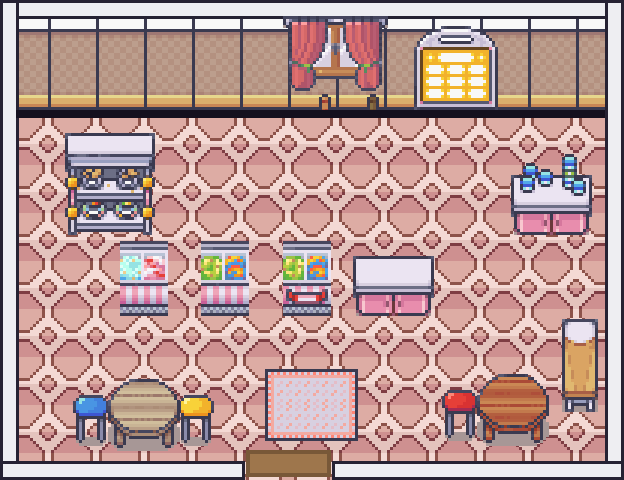
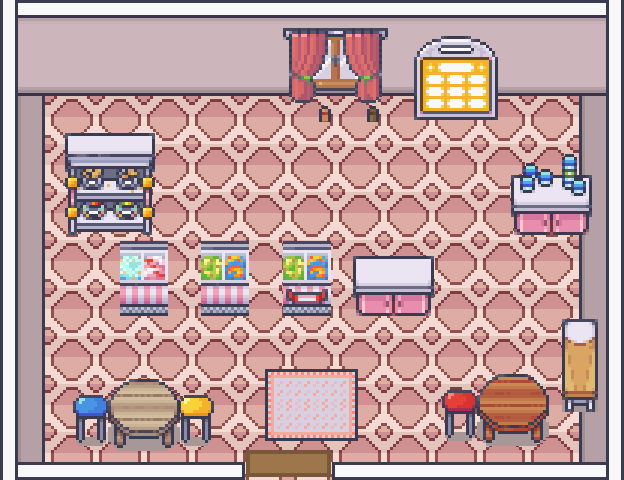
Echte LimeZu-muren in alle interieurs
Muur-engine vervangen: wandvlakken en zijmuur-stukken gecropt uit het Generic
Home-design (6_Home_Designs), witte randen die om hoeken doorlopen, zijmuren
met echte dikte, binnenmuren met volledig profiel en nette deurposten, en een
muurtint per kamer voor eigen sfeer. Wanddecor hangt op het nieuwe muurvlak.
Aanleiding: vergelijking met het officiele LimeZu-voorbeeld (screenshot
Stephan); de oude geschilderde kappen en onderbroken muren zijn weg.

Claude-Session: https://claude.ai/code/session_01SkE9qCHYANELouNJeJz2hC

Changed region(s): [[0.0, 0.0, 1.0, 1.0]]

diff --git a/docs/sw.js b/docs/sw.js
@@ -3,7 +3,7 @@
 // Schaakhelden: eerst cache, dan netwerk; alles wat binnenkomt gaat de cache
 // in, dus na een keer spelen werkt het spel volledig offline.
 // Nieuwe versie uitbrengen? Verhoog het nummer hieronder.
-const CACHE = 'tafeldorp-v2';
+const CACHE = 'tafeldorp-v3';
 
 const START = ['.', 'index.html', 'manifest.webmanifest'];
 

diff --git a/public/sw.js b/public/sw.js
@@ -3,7 +3,7 @@
 // Schaakhelden: eerst cache, dan netwerk; alles wat binnenkomt gaat de cache
 // in, dus na een keer spelen werkt het spel volledig offline.
 // Nieuwe versie uitbrengen? Verhoog het nummer hieronder.
-const CACHE = 'tafeldorp-v2';
+const CACHE = 'tafeldorp-v3';
 
 const START = ['.', 'index.html', 'manifest.webmanifest'];
 

diff --git a/scripts/bouw-interieurs.py b/scripts/bouw-interieurs.py
@@ -55,6 +55,32 @@ WAND = {
 RAND_DONKER = (42, 36, 56, 255)
 RAND_LICHT = (214, 210, 224, 255)
 
+# LimeZu-muurstukken uit het Generic Home-design (6_Home_Designs): echte
+# Room_Builder-look voor alle kamers. Maten: noordmuur 96px (witte top 18 +
+# wandvlak 81 incl contour), zijmuur 45px dik (rand 18 + vlak 24 + lijn 3),
+# zuidkap 18px.
+_GH = Image.open(VENDOR / "modern-interiors" / "6_Home_Designs" /
+                 "Generic_Home_Designs" / "48x48" /
+                 "Generic_Home_1_Layer_1_48x48.png").convert("RGBA")
+N_VLAK = _GH.crop((192, 15, 240, 96))      # 48x81 wandvlak met contourlijnen
+ZIJ_GRIJS = _GH.crop((579, 528, 603, 576))  # 24x48 zijwand-vlak
+WIT = (248, 248, 248, 255)
+DONKER = (58, 58, 80, 255)
+RAND = 18
+ZIJ = RAND + 24 + 3
+NOORD = 96
+ZUID = 18
+
+
+def getint(img, kleur):
+    """Multiply-tint op een muurvlak; contouren blijven donker."""
+    if kleur is None:
+        return img
+    arr = np.array(img).astype(float)
+    for i in range(3):
+        arr[..., i] *= kleur[i] / 255.0
+    return Image.fromarray(arr.clip(0, 255).astype("uint8"))
+
 # NPC-plekken (spiegel van src/core/locaties.ts) voor de debug-render
 NPC_PLEK = {
     "thuis": {"tx": 3.2, "ty": 5.6},
@@ -159,6 +185,7 @@ KAMERS = {
     # vloerwissel), slaapkamer | hal beneden. Mama bij het aanrecht (3.2, 5.6).
     "thuis": {
         "b": 18, "h": 15, "vloer": "parket", "wand": "taupe", "mat_bx": 13,
+        "muurtint": (255, 244, 225),
         "zones": [
             (0, 2, 7, 7, "grijslicht"),     # keuken (geblokte zone in het hout)
             (0, 10, 7, 14, "rozediamant"),  # slaapkamer
@@ -178,7 +205,7 @@ KAMERS = {
             (KEUKEN, 153, 3, 3.9, 0.5),     # fornuis
             (KEUKEN, 143, 4.2, 3.85, 0.45),  # spoelbak
             (KEUKEN, 113, 5.4, 3.85, 0.45),  # aanrecht
-            ("gen", GEN["raam_hout"], 6.6, 1.3, 0.0, False),
+            ("gen", GEN["raam_hout"], 6.6, 1.55, 0.0, False),
             (KEUKEN, 296, 4, 6.6, 0.3),     # eettafel
             (KEUKEN, 384, 4, 6.68, 0.0, False),   # bord met eten op tafel
             (KEUKEN, 371, 2.7, 6.5, 0.3), (KEUKEN, 368, 5.3, 6.5, 0.3),
@@ -186,7 +213,7 @@ KAMERS = {
             (LR, 89, 10, 4, 0.65),          # staande klok
             ("gen", GEN["raam_gordijn_beige"], 11.9, 1.68, 0.0, False),
             (LR, 110, 14, 4, 0.55),         # haard
-            ("gen", GEN["schilderij_vuur"], 16.2, 1.3, 0.0, False),
+            ("gen", GEN["schilderij_vuur"], 16.2, 1.5, 0.0, False),
             (LR, 37, 16.4, 4, 0.55),        # kast
             (LR, 29, 12, 5.9, 0.35),        # bank op het kleed
             (REC, 204, 14.7, 5.9, 0.35),    # fauteuil
@@ -205,13 +232,14 @@ KAMERS = {
     # toonbank met vitrines scheidt papa (5.5, 4.4) van de klantenruimte.
     "bakkerij": {
         "b": 14, "h": 10, "vloer": "beige", "wand": "streep",
+        "muurtint": (255, 228, 190),
         "kleden": [(KEUKEN, 226, 10.5, 8.4)],
         "meubels": [
             (GROC, 253, 1.6, 3.95, 0.5), (GROC, 254, 3.4, 3.95, 0.5),   # ovens
             (GROC, 203, 5.4, 3.9, 0.5), (GROC, 205, 7.2, 3.9, 0.5),     # broodrekken
             (GROC, 250, 9, 3.9, 0.5),       # stokbroodrek
-            ("gen", GEN["raam_rood"], 10.9, 1.3, 0.0, False),
-            (GROC, 89, 12.5, 1.15, 0.0, False),   # aanbiedingsbord
+            ("gen", GEN["raam_rood"], 10.9, 1.55, 0.0, False),
+            (GROC, 89, 12.5, 1.45, 0.0, False),   # aanbiedingsbord
             (KEUKEN, 407, 2.6, 5.6, 0.35), (KEUKEN, 408, 4.6, 5.6, 0.35),  # vitrines
             (GROC, 171, 6.5, 5.6, 0.35),    # kassa
             (REC, 3, 10.5, 7.6, 0.3),       # tafeltje in de winkel
@@ -224,11 +252,12 @@ KAMERS = {
     # koelwand en groentekasten achter, stelling-eilanden in het midden.
     "supermarkt": {
         "b": 16, "h": 12, "vloer": "grijslicht", "wand": "taupe",
+        "muurtint": (235, 240, 245),
         "meubels": [
-            (GROC, 2, 1, 1.15, 0.0, False),   # OPEN-bord
+            (GROC, 2, 1.2, 1.45, 0.0, False),   # OPEN-bord
             (GROC, 61, 4.6, 3.9, 0.5), (GROC, 66, 6.6, 3.9, 0.5), (GROC, 71, 8.6, 3.9, 0.5),
             (GROC, 427, 11, 3.9, 0.45), (GROC, 428, 13.2, 3.9, 0.45),  # groente-uitstalling
-            (GROC, 88, 14.9, 1.15, 0.0, False),   # prijsbord
+            (GROC, 88, 14.6, 1.45, 0.0, False),   # prijsbord
             (GROC, 171, 2.2, 6.7, 0.35),    # kassa bij de muur, verkoper erachter
             (GROC, 121, 1.2, 8.4, 0.3),     # winkelmanden voor de balie
             (GROC, 98, 6.5, 7.5, 0.5), (GROC, 100, 9.5, 7.5, 0.5), (GROC, 102, 12.5, 7.5, 0.5),
@@ -241,13 +270,14 @@ KAMERS = {
     # tafeltjes in twee rijen, boekenkasten in de hoeken.
     "school": {
         "b": 16, "h": 12, "vloer": "plankgeel", "wand": "rozeplank",
+        "muurtint": (255, 245, 205),
         "kleden": [("gen", GEN["kleed_klein_groen"], 3, 7.85)],
         "meubels": [
             (KLAS, 45, 0.9, 3.9, 0.55), (KLAS, 47, 2.6, 3.9, 0.55),  # boekenkasten
             (KLAS, 39, 5.5, 4.2, 0.45),     # schoolbord op poten
-            (KLAS, 31, 9.5, 1.15, 0.0, False),   # wereldkaart
-            (KLAS, 32, 11.5, 1.15, 0.0, False),  # stickerkaart
-            (KLAS, 33, 13.4, 1.15, 0.0, False),  # prikbord
+            (KLAS, 31, 9.5, 1.45, 0.0, False),   # wereldkaart
+            (KLAS, 32, 11.5, 1.45, 0.0, False),  # stickerkaart
+            (KLAS, 33, 13.4, 1.45, 0.0, False),  # prikbord
             (KLAS, 60, 14.2, 3.9, 0.55),    # kast rechtsachter
             (KLAS, 25, 3, 7.4, 0.3),        # juf-bureau, juf erachter
             (KLAS, 9, 6.5, 7.5, 0.3), (KLAS, 11, 9.5, 7.5, 0.3), (KLAS, 7, 12.5, 7.5, 0.3),
@@ -259,11 +289,12 @@ KAMERS = {
     # balie rechts waar de bibliothecaresse staat (13.6, 4.6), leeshoek rechtsonder.
     "bieb": {
         "b": 16, "h": 12, "vloer": "houtdonker", "wand": "baksteenbruin",
+        "muurtint": (240, 225, 200),
         "kleden": [("gen", GEN["kleed_grijs"], 12, 10.3)],
         "meubels": [
             (KLAS, 74, 1, 3.9, 0.55), (KLAS, 70, 2.9, 3.9, 0.55), (KLAS, 62, 4.8, 3.9, 0.55),
             (KLAS, 64, 6.7, 3.9, 0.55), (KLAS, 72, 8.6, 3.9, 0.55),
-            ("gen", GEN["raam_bruin"], 11, 1.3, 0.0, False),
+            ("gen", GEN["raam_bruin"], 11, 1.55, 0.0, False),
             (KLAS, 59, 14.9, 3.9, 0.55),    # smalle kast in de noordoost-hoek
             (KLAS, 49, 13.6, 5.8, 0.35),    # uitleenbalie
             (KLAS, 43, 3.5, 7, 0.45), (KLAS, 44, 7, 7, 0.45),   # schap-eilanden
@@ -278,6 +309,7 @@ KAMERS = {
     # (9, 6.2), matten midden, krachthoek links, boksbal rechts.
     "sporthal": {
         "b": 18, "h": 13, "vloer": "grijs", "wand": "taupe",
+        "muurtint": (225, 230, 238),
         "meubels": [
             (GYM, 131, 2.2, 3.35, 0.5), (GYM, 131, 4, 3.35, 0.5),   # spiegels
             (GYM, 186, 6.5, 4, 0.35), (GYM, 187, 8.5, 4, 0.35),   # loopbanden
@@ -297,6 +329,7 @@ KAMERS = {
     # Mees staat vrij in het midden (6.5, 5.4).
     "molen": {
         "b": 12, "h": 10, "vloer": "plankoud", "wand": "kist",
+        "muurtint": (235, 215, 185),
         "meubels": [
             (REC, 64, 1.2, 3.85, 0.4), (REC, 65, 2.9, 3.8, 0.4),   # kratten
             (GROC, 436, 5, 3.75, 0.3), (GROC, 437, 6.8, 3.75, 0.3),  # meelzakken
@@ -311,6 +344,7 @@ KAMERS = {
     # met een loper als middenpad naar de deur. Arena van de Tafeldraak.
     "kerk": {
         "b": 14, "h": 13, "vloer": "visgraat", "wand": "baksteenrood",
+        "muurtint": (255, 215, 195),
         "kleden": [
             ("gen", GEN["kleed_paars"], 7, 6.2),   # altaarkleed
             ("gen", GEN["loper_bruin"], 7, 12.4),
@@ -332,6 +366,7 @@ KAMERS = {
     # ervoor (7, 5.2), hooi los op de vloer, vaten en kratten in de hoeken.
     "boerderij": {
         "b": 14, "h": 10, "vloer": "plankoud", "wand": "plankdonker",
+        "muurtint": (230, 210, 180),
         "meubels": [
             (REC, 66, 1, 3.85, 0.4),        # krat
             ("farm", "^Manger_Horizontal_Full", 3.5, 3.8, 0.45),
@@ -350,11 +385,12 @@ KAMERS = {
     # ijshoorn-beeld, tafeltjes met gekleurde krukken in de zitzone.
     "ijssalon": {
         "b": 13, "h": 10, "vloer": "rozediamant", "wand": "rozechecker",
+        "muurtint": (255, 228, 235),
         "kleden": [(KEUKEN, 259, 6, 8.2)],
         "meubels": [
             (IJS, 2, 1.8, 3.9, 0.5),        # softijsmachine-counter
-            ("gen", GEN["raam_gordijn_roze"], 6.5, 1.3, 0.0, False),
-            (IJS, 13, 9, 1.3, 0.0, False),  # menubord
+            ("gen", GEN["raam_gordijn_roze"], 6.5, 1.55, 0.0, False),
+            (IJS, 13, 9, 1.5, 0.0, False),  # menubord
             (IJS, 101, 11, 3.9, 0.5),       # toppings-counter
             (IJS, 28, 2.5, 5.6, 0.35), (IJS, 34, 4.2, 5.6, 0.35), (IJS, 43, 5.9, 5.6, 0.35),
             (IJS, 100, 7.7, 5.6, 0.35),     # kassa-counter, rij begint bij de muur
@@ -374,7 +410,6 @@ def bouw(kid, cfg):
     boven = Image.new("RGBA", (w, h), (0, 0, 0, 0))
 
     vloer = VLOER[cfg["vloer"]]
-    wtop, wbot = WAND[cfg["wand"]]
     for ty in range(2, Hh):
         for tx in range(B):
             onder.paste(vloer, (tx * TILE, ty * TILE))
@@ -383,59 +418,106 @@ def bouw(kid, cfg):
         for ty in range(zy0, zy1 + 1):
             for tx in range(zx0, zx1 + 1):
                 onder.paste(zv, (tx * TILE, ty * TILE))
-    for tx in range(B):
-        onder.paste(wtop, (tx * TILE, 14))
-        onder.paste(wbot, (tx * TILE, 14 + TILE))
 
-    # dikke witte muur-kap rondom (Home Designs-look) met deuropening onderaan
+    # Echte LimeZu-muren (stukken uit het Generic Home-design): noordmuur met
+    # wandvlak en witte top, zijmuren met dikte, dunne zuidkap, en witte
+    # randen die netjes om de hoeken doorlopen.
     d = ImageDraw.Draw(onder)
-    KAP = 16
-    WIT = (238, 238, 242, 255)
-    DONKER = (38, 34, 51, 255)
     mat_bx = cfg.get("mat_bx", B // 2)
     deur_x0, deur_x1 = (mat_bx - 1) * TILE + 4, (mat_bx + 1) * TILE - 4
 
-    def kapvlak(x0, y0, x1, y1):
-        d.rectangle([x0, y0, x1, y1], fill=WIT, outline=DONKER, width=3)
+    def rand_horizontaal(x0, x1, y):
+        d.rectangle([x0, y, x1 - 1, y + 2], fill=DONKER)
+        d.rectangle([x0, y + 3, x1 - 1, y + 14], fill=WIT)
+        d.rectangle([x0, y + 15, x1 - 1, y + 17], fill=DONKER)
 
-    kapvlak(0, 0, w - 1, KAP + 2)                      # boven
-    kapvlak(0, 0, KAP + 2, h - 1)                      # links
-    kapvlak(w - KAP - 3, 0, w - 1, h - 1)              # rechts
-    kapvlak(0, h - KAP - 3, deur_x0, h - 1)            # onder, links van de deur
-    kapvlak(deur_x1, h - KAP - 3, w - 1, h - 1)        # onder, rechts van de deur
-    # vloer-schaduw onder de noordmuur
-    d.rectangle([KAP, 2 * TILE + 14, w - KAP - 4, 2 * TILE + 21], fill=(20, 16, 30, 70))
+    def rand_verticaal(x, y0, y1):
+        d.rectangle([x, y0, x + 2, y1 - 1], fill=DONKER)
+        d.rectangle([x + 3, y0, x + 14, y1 - 1], fill=WIT)
+        d.rectangle([x + 15, y0, x + 17, y1 - 1], fill=DONKER)
+
+    n_vlak = getint(N_VLAK, cfg.get("muurtint"))
+    zij_grijs = getint(ZIJ_GRIJS, cfg.get("muurtint"))
+
+    def noordvlak(x0, x1, y):
+        """Wandvlak (81px hoog) getegeld over [x0, x1)."""
+        for x in range(x0, x1, TILE):
+            onder.paste(n_vlak.crop((0, 0, min(TILE, x1 - x), 81)), (x, y))
+
+    # 1. noordmuur: witte top + wandvlak over de volle breedte
+    d.rectangle([0, 0, w - 1, 2], fill=DONKER)
+    d.rectangle([0, 3, w - 1, 14], fill=WIT)
+    noordvlak(0, w, 15)
+    # 2. zuidkap met deuropening
+    rand_horizontaal(0, deur_x0, h - ZUID)
+    rand_horizontaal(deur_x1, w, h - ZUID)
+    d.rectangle([deur_x0 - 2, h - ZUID, deur_x0, h - 1], fill=DONKER)
+    d.rectangle([deur_x1, h - ZUID, deur_x1 + 2, h - 1], fill=DONKER)
+    # 3. zijwand-vlakken tussen noordmuur en zuidkap
+    for y in range(NOORD, h - ZUID, TILE):
+        hh = min(TILE, h - ZUID - y)
+        onder.paste(zij_grijs.crop((0, 0, 24, hh)), (RAND, y))
+        onder.paste(zij_grijs.crop((0, 0, 24, hh)), (w - RAND - 24, y))
+    d.rectangle([RAND + 24, NOORD, RAND + 26, h - ZUID - 1], fill=DONKER)
+    d.rectangle([w - RAND - 27, NOORD, w - RAND - 25, h - ZUID - 1], fill=DONKER)
+    # 4. witte buitenranden links en rechts, over de volle hoogte (hoeken)
+    rand_verticaal(0, 0, h)
+    rand_verticaal(w - RAND, 0, h)
     # deurmat in de opening
     d.rectangle([deur_x0 + 2, h - 30, deur_x1 - 2, h - 4], fill=(120, 88, 56, 255))
     d.rectangle([deur_x0 + 6, h - 26, deur_x1 - 6, h - 8], fill=(158, 118, 76, 255))
 
-    # binnenmuren: horizontaal = muurvlak (wandpaar), verticaal = witte kap
+    # binnenmuren: horizontaal = volledig muurprofiel (witte top + wandvlak),
+    # verticaal = witte wandband; segmentuiteinden krijgen een nette afsluiting
     hwanden = cfg.get("hwanden", [])
     vwanden = cfg.get("vwanden", [])
     binnen_collisions = []
     for (my, mx0, mx1, gat0, gat1) in hwanden:
+        py = my * TILE
+        segmenten = []
+        seg = None
         for tx in range(mx0, mx1 + 1):
             if gat0 is not None and gat0 <= tx <= gat1:
+                seg = None
                 continue
-            onder.paste(wtop, (tx * TILE, my * TILE))
-            onder.paste(wbot, (tx * TILE, (my + 1) * TILE))
-            d.rectangle([tx * TILE, my * TILE - 8, (tx + 1) * TILE, my * TILE],
-                        fill=WIT, outline=DONKER, width=2)
-            binnen_collisions.append([tx * TILE, my * TILE - 8, TILE, 2 * TILE + 8])
+            if seg is None:
+                seg = [tx, tx]
+                segmenten.append(seg)
+            seg[1] = tx
+        for (sx0, sx1) in segmenten:
+            x0, x1 = sx0 * TILE, (sx1 + 1) * TILE
+            rand_horizontaal(x0, x1, py - ZUID)
+            noordvlak(x0, x1, py)
+            d.rectangle([x0, py + 81, x1 - 1, py + 83], fill=DONKER)
+            # verticale afsluiting aan beide uiteinden
+            d.rectangle([x0, py - ZUID, x0 + 2, py + 83], fill=DONKER)
+            d.rectangle([x1 - 3, py - ZUID, x1 - 1, py + 83], fill=DONKER)
+            binnen_collisions.append([x0, py - ZUID, x1 - x0, 84 + ZUID])
     for (mx, my0, my1, gat0, gat1) in vwanden:
+        px = mx * TILE - 9
+        segmenten = []
+        seg = None
         for ty in range(my0, my1 + 1):
             if gat0 is not None and gat0 <= ty <= gat1:
+                seg = None
                 continue
-            d.rectangle([mx * TILE - 9, ty * TILE, mx * TILE + 9, (ty + 1) * TILE],
-                        fill=WIT, outline=DONKER, width=2)
-            binnen_collisions.append([mx * TILE - 11, ty * TILE, 22, TILE])
+            if seg is None:
+                seg = [ty, ty]
+                segmenten.append(seg)
+            seg[1] = ty
+        for (sy0, sy1) in segmenten:
+            y0, y1 = sy0 * TILE, (sy1 + 1) * TILE
+            rand_verticaal(px, y0, y1)
+            d.rectangle([px, y0, px + 17, y0 + 2], fill=DONKER)
+            d.rectangle([px, y1 - 3, px + 17, y1 - 1], fill=DONKER)
+            binnen_collisions.append([px - 2, y0, 22, y1 - y0])
 
     collisions = [
-        [0, 0, w, 2 * TILE + 12],          # noordmuur
-        [0, 0, KAP + 4, h],                # links
-        [w - KAP - 4, 0, KAP + 4, h],      # rechts
-        [0, h - KAP - 6, deur_x0, KAP + 6],
-        [deur_x1, h - KAP - 6, w - deur_x1, KAP + 6],
+        [0, 0, w, NOORD - 4],              # noordmuur
+        [0, 0, ZIJ + 2, h],                # links
+        [w - ZIJ - 2, 0, ZIJ + 2, h],      # rechts
+        [0, h - ZUID - 4, deur_x0, ZUID + 4],
+        [deur_x1, h - ZUID - 4, w - deur_x1, ZUID + 4],
     ] + binnen_collisions
 
     # vloerkleden: onder alle meubels, geen botsing

diff --git a/ontwerp/kaartontwerp.md b/ontwerp/kaartontwerp.md
@@ -78,6 +78,13 @@ tier 2, Pierre's General Store, Stardrop Saloon, Barn — wiki-screenshots):
 - Winkel = kassa bij de deur plus stelling-eilanden met brede gangpaden
   (Pierre's), stal = voederbakken tegen de noordmuur plus los hooi (Barn).
 
+Muren (20 aug 2026): echte LimeZu-muren, met stukken gecropt uit het
+Generic Home-design (`6_Home_Designs`): noordmuur 96px (witte top plus
+wandvlak met contour), zijmuren 45px dik, dunne zuidkap, binnenmuren met
+volledig profiel en nette einden; witte randen lopen om de hoeken door.
+Per kamer een `muurtint` (multiply over het vlak) voor eigen sfeer. De
+Home Designs zelf (complete shells) zijn een optie voor latere upgrades.
+
 Assets: Modern Interiors thema-singles op nummer, gekozen via de contact
 sheets uit `scripts/contact-interieurs.py` (output `scripts/contact/`,
 gitignored). Generic-items (kleden, ramen, banken, planten) komen als
